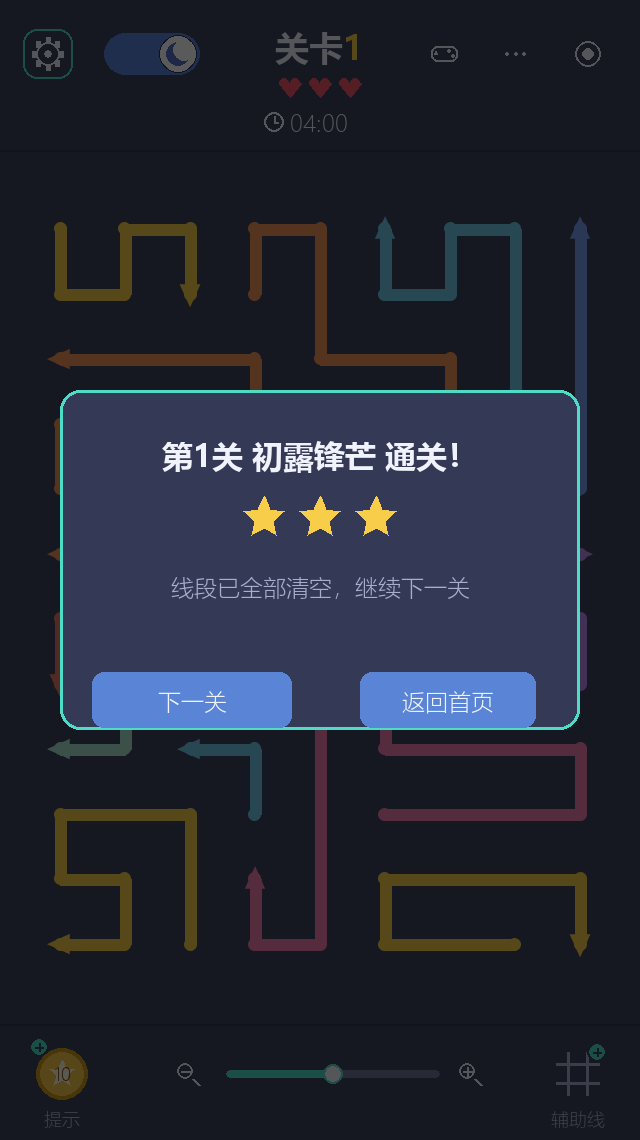
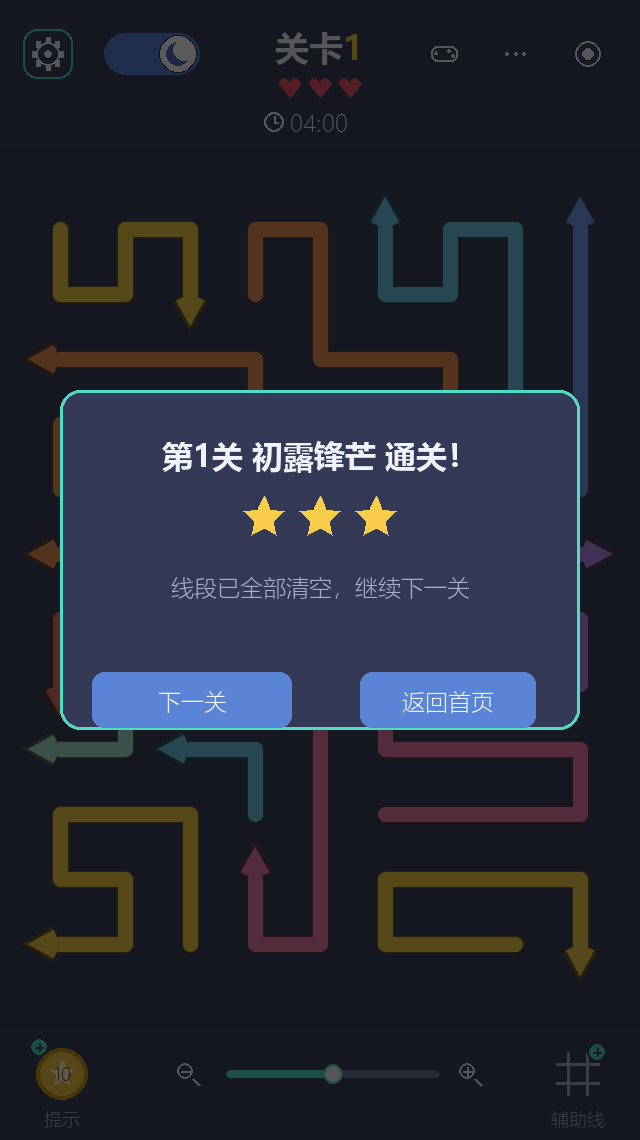
docs: 同步箭头美化的线宽/飞镖/描边说明、测试记录 T11 与重出的截图
- README：补充线段画法一节（线宽 0.30、飞镖箭头、等厚外描边），项目结构与用例数同步到 193
- docs/design.md 7.2 重写为「圆角折线 + 飞镖箭头 + 一圈外描边」，写清线宽的量化来源、2r vs 2r+1 的像素对齐坑、描边为何乘系数（保色相）、为何不是整体放大
- docs/test-record.md：标题扩到 T11，新增 T11（26 个函数 / 43 个用例的像素级验证与整帧耗时），汇总改为 193 passed
- AIGC记录.md：汇总表补第 14 条，新增「记录 H：箭头和线再美化一下 —— 先把参考图量成数字」，复查提醒补 5 条
- assets/screenshots/ 全部重出（tools/screenshot.py），反映新的线宽、箭头与描边

diff --git a/AIGC记录.md b/AIGC记录.md
@@ -26,7 +26,7 @@
 
 ---
 
-## 详述：七条值得单独讲的记录
+## 详述：八条值得单独讲的记录
 
 ### 记录 A：环境问题 —— 为什么用 `pygame-ce` 而不是 `pygame`
 
@@ -48,7 +48,8 @@
   飞行时整条线段预渲染成一张 Surface，沿「自身格子 + 箭头延长线」的路径平移。
 - **实际效果**：一次跑通，但第一版的箭头又粗又直，和参考图差距明显。
 - **人工修改**：
-  - 线宽比例 `SEGMENT_WIDTH_RATIO` 从 0.36 调到 0.26，让格子和点阵能透出来；
+  - 线宽比例 `SEGMENT_WIDTH_RATIO` 从 0.36 调到 0.26，让格子和点阵能透出来
+    （后来在记录 H 里按参考录屏逐像素量了一遍，又提到 0.30）；
   - 明确「判定只看箭头那一条射线，身体不参与碰撞」，并补了 `test_bent_flows_along_own_path` 锁住这条规则。
 
 ### 记录 C：关卡太稀疏 —— 生成器的密度调优
@@ -175,6 +176,45 @@
 
 ---
 
+### 记录 H：箭头和线再美化一下 —— 先把参考图量成数字
+
+- **工具**：DeepSeek
+- **提出的要求**：玩家反馈「箭头和线再美化一下」。
+- **AI 完成内容**：
+  1. **量参考图**：用 `imageio_ffmpeg` 内置的 ffmpeg 把参考录屏抽帧，再用 numpy + PIL
+     逐像素量线宽与格子间距 —— 金黄那支箭实占 **14 px**，相邻格心间距约 **56 px**，
+     线宽约为格距的 1/4。据此把 `SEGMENT_WIDTH_RATIO` 从 0.26 提到 0.30，
+     `MAX_SEGMENT_WIDTH` 从 12 提到 15；
+  2. **箭头改形**：参考图里的箭头后缘是往内兜的（把线身的圆头包进去），不是等腰三角。
+     于是把箭头从 3 个顶点改成 **4 个顶点** 的飞镖 —— 尖端、两枚**前掠**的倒钩
+     （`HEAD_SWEEP_RATIO = 0.42`）、尾根处的收口点，尺寸按线宽缩放
+     （`HEAD_SPAN_RATIO = 1.90`、`HEAD_LENGTH_RATIO = 2.15`）；
+  3. **加外描边**：深色底上线段的边缘本来就靠明度差「切」出来，两条线挨着时容易糊成
+     一片。给整支箭加一圈外描边，颜色取「线身色 × 系数」而不是「线身色 − 常数」——
+     乘系数色相不变，减常数会把蓝、紫这类深色压成黑；力度按主题给（夜间 0.46、日间 0.72）。
+     描边的画法**不是**把整支箭放大（那样箭头会比线身多粗出好几倍），而是拿同一套函数
+     画两遍：先画「线身加宽 `2×rim` + 箭头外撑 `rim`」的描边色，再画线身；
+  4. **顺带查出老疙瘩的真正原因**：圆点贴图原来取直径 `2r+1`（画整数圆的老规矩），
+     而 pygame 画粗线时涂的是 `y_center - (w-1)//2` 起的 `w` 行 —— 直径比线宽多 1 像素，
+     于是每个拐点、每个端头都鼓出一小块。改成直径 `2r`，并把「宽 `w` 的笔画落在
+     `center` 上从哪一行开始」固化成 `stroke_span()`，圆点、箭头贴图都按它摆。
+- **实际效果**：线宽与箭头形态对齐参考录屏；线段边缘更利落，相邻线段之间多了一层分隔；
+  拐点 / 端头的 1 像素鼓包消失；静态线段与飞行线段仍然逐像素一致。
+  新增 `tests/test_stroke.py`（26 个函数 / 43 个用例），全量 **193 个用例**通过。
+  整帧耗时无明显回退（第 1 关 3.88 ms，第 12 关 4.76 ms，关掉描边约 3.46 ms）。
+- **人工修改**：
+  - 没有凭感觉调参数：先用 ffmpeg 抽帧 + numpy 逐像素量出「14 px / 56 px」这个比例，
+    才去改 `SEGMENT_WIDTH_RATIO`；
+  - 否掉了「整体放大一圈就是描边」的省事写法 —— 放大对线身成立，但箭头那几倍的斜边
+    会一起变粗，看着像箭头包了一圈毛巾；改成线身与箭头各按自己的外扩量画；
+  - 描边一开始用「减去一个固定值」压暗，浅色（金黄、薄荷）看着还行，深色（蓝、紫）
+    直接掉成黑边。改成乘系数并把力度抽成主题参数，日间改用 0.72；
+  - 测试写完发现「线宽处处相等」这条断言老是偶发失败，排查后确认是自己量错了行
+    （没处理偶数宽的半像素偏移、把拐点的并集当成了单行）—— 改成量整段像素带、
+    再和「两臂并集」比对之后稳定通过。
+
+---
+
 ## 复查提醒（助教可能问到的点）
 
 - `can_fly_arrow` 为什么只看箭头射线、不需要检查身体路径？（因为身体沿自身折线滑出，不横扫）
@@ -197,7 +237,19 @@
 - 为什么抗锯齿只做圆点和箭头，不做整条线？（折线都是横平竖直的，直段的边本来就是锐利的
   整数像素边界，不需要抗锯齿；整幅超采样每帧要新建上百万像素的 Surface 再缩回来，
   约 2.5 ms/帧，而只给两处小贴图做超采样可以忽略不计）
-- 为什么直线段中间的节点不补圆点？（圆点比线段宽 1~2 像素，每个节点都补会在线上挂一串
-  小疙瘩、直线看着不直；只在两端与真正拐弯的节点补）
+- 为什么直线段中间的节点不补圆点？（每个节点都补会在线上挂一串小疙瘩、直线看着不直；
+  只在两端与真正拐弯的节点补。那个「鼓出 1 像素」的根因后来在记录 H 里查清了：
+  圆点直径取成了 `2r+1`，比线宽多 1 个像素）
 - 为什么单帧步进要夹上限？（切窗口回来 `clock.tick()` 可能一次返回几百毫秒，
   飞行线一步跨过好几格就是「瞬移」；夹到 50 ms 后宁可慢半拍也不跳）
+- 线宽为什么取格距的 0.30？（对着参考录屏抽帧量的：金黄那支箭实占 14 px、格心间距约
+  56 px，线宽约 1/4 格；上限 15 px 是为了大格距下不把点阵糊掉）
+- 箭头为什么做成 4 个顶点的「飞镖」而不是三角？（参考图里的箭头后缘是往内兜的，
+  把线身的圆头包进凹口，箭头屁股后面才不露出一截；两枚倒钩前掠 0.42 倍线宽）
+- 描边为什么用「乘系数」而不是「减常数」？（乘系数色相不变；减常数会把蓝、紫这类
+  深色直接压成黑边，浅色底（日间）还得把系数调轻，所以做成主题参数）
+- 描边为什么不是「把整支箭放大一圈」？（放大对线身成立，但箭头的斜边会跟着一起变粗，
+  箭头看着像包了条毛巾；正确做法是线身加宽 `2×rim`、箭头往外撑 `rim`，两边才是等厚的一圈）
+- 圆点直径为什么必须严格等于线宽？（pygame 画宽 `w` 的线涂的是 `y_center-(w-1)//2`
+  起的 `w` 行，圆点若按画整数圆的老规矩取 `2r+1`，就比线宽多 1 像素，每个拐点、
+  每个端头都会鼓出一小块 —— 这就是放大了看「线上挂着一串疙瘩」的真正原因）

diff --git a/docs/test-record.md b/docs/test-record.md
@@ -197,7 +197,7 @@
   3. `offset = 0` 时画出的折线必须正好等于线段原来的格心（起飞瞬间不能跳）；
   4. 折线的每一段都横平竖直；`offset` 超过路径尽头时不崩、不画出一坨重复点；
   5. 圆点只补在两端与拐弯处（直线段上补圆点会在节点处胖出 1~2 像素，用像素厚度断言）；
-  6. 抗锯齿小图：直径 2r+1（与整数圆同宽）、边缘有半透明过渡像素、透明处不渗黑、
+  6. 抗锯齿小图：直径与整数圆同宽、边缘有半透明过渡像素、透明处不渗黑、
      按「形状 + 尺寸 + 颜色」缓存、箭头贴图随尺寸放大；
   7. 位移匀速、与帧率无关（60 帧一步 == 120 帧两步）、任何一帧的位移不超过
      `速度 × MAX_FRAME_DT`（把 `clock.tick` 换成返回 500 毫秒的假时钟验证夹取）；
@@ -209,6 +209,48 @@
   与新旧渲染的 6 倍放大对照（拐角由「斜切」变成原来的直角、箭头斜边不再有锯齿）。
 - **结论**：转弯处不再抖动，线在飞的过程中厚度与折线长度都保持恒定；顺带把盘面静态线段
   的节点疙瘩也去掉了（同一条描边函数），整帧耗时 4.3 ms，未见性能回退。
+
+---
+
+## T11 箭头与线段的观感（线宽、飞镖箭头、外描边、像素对齐）
+
+- **目的**：把箭头和线段再做一轮美化，对齐参考录屏的观感，并防止「美化」把几何改坏。
+  这一轮改了三件事：线宽比例、箭头形状、外描边；顺带修掉一个从 T10 遗留的像素级缺陷。
+- **用例**：`tests/test_stroke.py`（26 个函数 / 43 个用例），另更新
+  `test_motion.py` 中两条与尺寸相关的断言。
+- **步骤**：
+  1. **量参考图**：用 ffmpeg 从参考录屏抽帧，逐像素量出线宽与格子间距，定下
+     `SEGMENT_WIDTH_RATIO = 0.30`、`MAX_SEGMENT_WIDTH = 15`；
+  2. **线宽处处相等**：沿直线段量多行 / 多列的像素带，断言带宽恒等于线宽（即
+     直线段上没有鼓包、没有断续）；
+  3. **拐点与端头不鼓包**：拐点的实占像素必须恰好等于两条臂的并集，端头的圆头
+     只允许往外多出半个线宽；任何位置都不许超出这个并集；
+  4. **圆点与线段逐像素对齐**：对同一宽度取 `disc_sprite()`，断言它的像素带与线段
+     的像素带完全一致（这是抓「圆点直径比线宽多 1 像素」的那条断言）；
+  5. **`stroke_span()` 与 pygame 的取整规则一致**：直接和 `pygame.draw.line` 的实际
+     涂色行做对照，防止两端各差 1 像素；
+  6. **箭头是飞镖不是三角**：断言 4 个顶点、尾根处的收口点落在凹口里、两枚倒钩
+     **前掠**（尖端的投影落在倒钩之前）；顶点顺序绕成闭合多边形；
+  7. **箭头尺寸跟着线宽**：`HEAD_SPAN_RATIO / HEAD_LENGTH_RATIO / HEAD_SWEEP_RATIO`
+     都实际生效，宽高比不是 1:1，包围盒随线宽单调变大；
+  8. **箭头贴图**：包围盒装得下 4 个顶点、贴图尺寸与包围盒一致、边缘有半透明的
+     抗锯齿像素、按（方向 + 尺寸 + 颜色 + 外扩量）缓存、外扩量能把图形撑大；
+  9. **外描边**：断言描边恰好是一圈（向外多出 `rim_width` 像素、线身内部不多不少）、
+     关掉就一圈都不剩；描边宽跟着线宽走；描边色**只压暗不改色相**（比较各通道的
+     相对大小），且夜间压得比日间狠；
+  10. **飞行与静止一致**：`offset = 0` 时飞行帧画出的线段与静态盘面逐像素相同
+      （美化后仍然不跳变）；
+  11. **全量渲染不崩**：12 关 × 日夜两套主题各渲染一遍，断言盘面上确实出现了多种
+      颜色（不是空盘 / 没画出来）；
+  12. **引脚检查**：箭头不会大到跨出自己那一格；飞行中箭头画在线的前端。
+- **预期**：全部通过。
+- **实际**：43 个用例全过，全量 **193 个用例**全过。
+  另用 `tools/screenshot.py` 重出 12 张截图（README 里用的那批）人工核对：
+  线宽、箭头形态、描边浓淡与参考录屏基本一致，两条线挨着的地方也能分清了。
+- **结论**：线宽对齐参考图（格距的 0.30），箭头由等腰三角改为飞镖，整支箭加了一圈
+  恒定厚度的外描边；拐点 / 端头不再有 1 像素鼓包；静态与飞行的渲染仍然一致。
+  整帧耗时无明显变化（第 1 关静态 3.88 ms、飞行 3.97 ms；第 12 关 4.76 / 4.63 ms；
+  关掉描边约 3.46 ms）。
 
 ---
 

diff --git a/README.md b/README.md
@@ -60,6 +60,10 @@ python main.py
 - **飞出动画**：整条线沿自身折线「流」出去 —— 取的是折线真正的一段（拐角不会被两点间的
   斜弦切掉），直段画实心矩形、只有拐角与两端补圆点，圆点与箭头用 4 倍超采样做抗锯齿；
   单帧步进夹了 50 ms 上限，切窗口回来也不会「瞬移」。详见 `docs/design.md` 第 7 节。
+- **线段的画法**（对着参考录屏逐像素量的）：线宽取格距的 0.30（约 1/4 格，和第 12 关的
+  15 px 上限对齐）；箭头是一枚**飞镖**而非等腰三角（两枚倒钩前掠、后缘向内兜住线身），
+  整支箭外面再描一圈比线身压暗一档的**外描边**（色相不变，深色底压狠、浅色底压轻），
+  线与线挨在一起时不会糊成一片。详见 `docs/design.md` 7.2。
 
 ## 项目结构
 
@@ -85,10 +89,10 @@ arrow-after-arrow/
 ├── tools/
 │   ├── generate_levels.py     # 重新生成 game/level.py（支持单关重生成与 --check）
 │   └── screenshot.py          # 无窗口离屏渲染，批量导出 assets/screenshots/
-├── tests/                     # pytest：路径 / 生成器 / 阻挡 / 求解器 / 存档 / 窗口 / 缩放拖动 / 动效 / 端到端
+├── tests/                     # pytest：路径 / 生成器 / 阻挡 / 求解器 / 存档 / 窗口 / 缩放拖动 / 动效 / 线段渲染 / 端到端
 ├── docs/
 │   ├── design.md              # 设计说明：数据结构、算法、界面布局、动效
-│   └── test-record.md         # T01–T10 测试记录
+│   └── test-record.md         # T01–T11 测试记录
 ├── assets/screenshots/        # 游戏截图
 ├── AIGC记录.md                # AIGC 使用记录
 ├── requirements.txt
